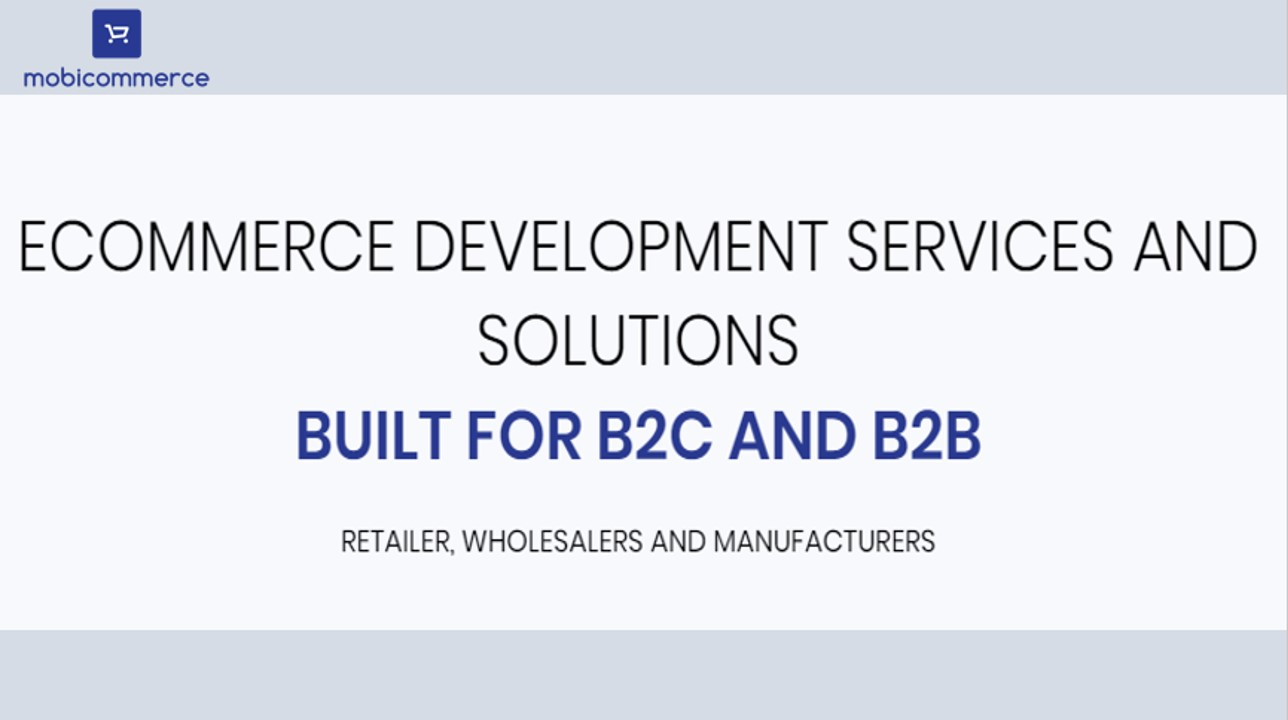
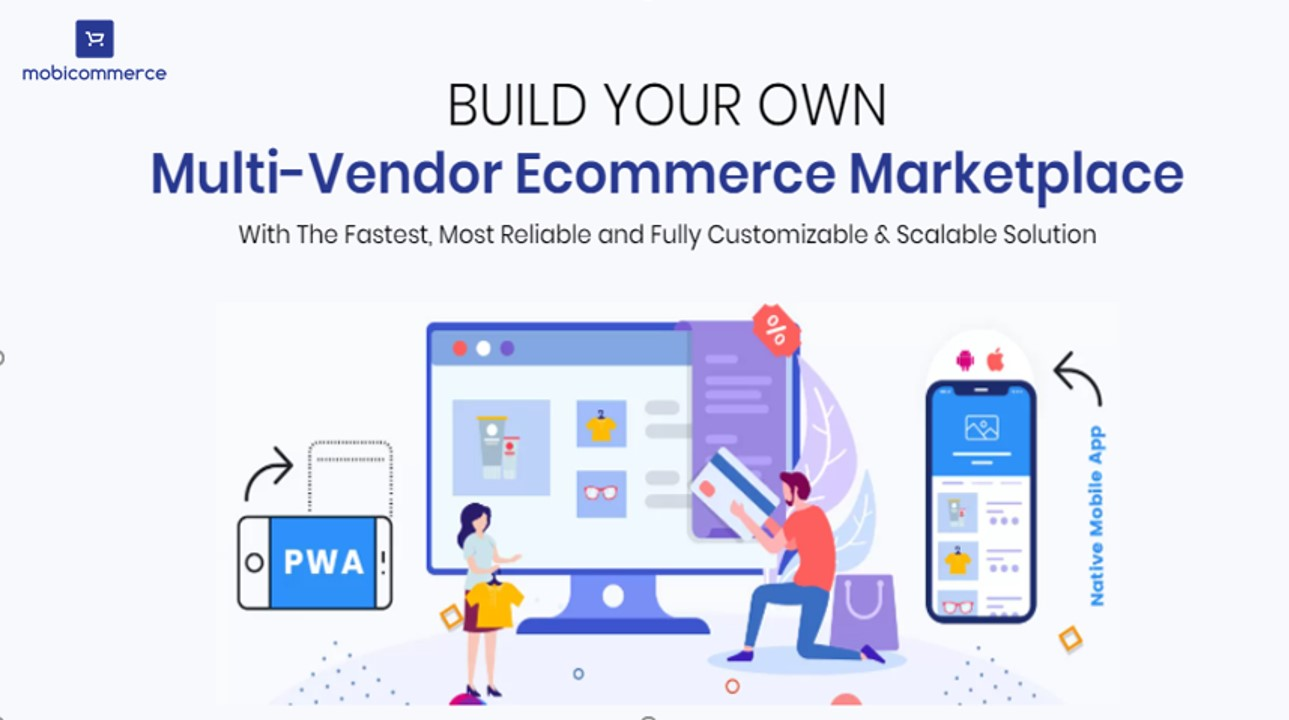
mobicommerce description and carousel change

diff --git a/src/store/strings.js b/src/store/strings.js
@@ -123,6 +123,7 @@ import MediaqartTwo from "../assets/partners/carousel/Mediaqart/two.jpg";
 
 import MobicommerceOne from "../assets/partners/carousel/Mobicommerce/one.jpg";
 import MobicommerceTwo from "../assets/partners/carousel/Mobicommerce/two.jpg";
+import MobicommerceThree from "../assets/partners/carousel/Mobicommerce/three.jpg";
 
 import MswipeOne from "../assets/partners/carousel/Mswipe/one.jpg";
 import MswipeTwo from "../assets/partners/carousel/Mswipe/two.jpg";
@@ -2845,6 +2846,12 @@ export const MOBICOMMERCE1 = {
     "•	Generate profits from the eCommerce website according to business and revenue models.",
     "•	We have ready-made, mobile-enabled solutions for multiple industries. In addition, the solutions are scalable and customizable to fit each business’ unique needs.",
     "MobiCommerce is the trusted and leading provider of next-generation E-commerce website portal and mobile app solution for B2C and B2B businesses as well as multi-vendor marketplaces",
+	<>
+	{"Subscribe Now on Youtube - "}
+		<a target="_blank" rel="noreferrer" href="https://www.youtube.com/channel/UCPljjVqNRIkD-awA6ov1TQw">
+			{"https://www.youtube.com/channel/UCPljjVqNRIkD-awA6ov1TQw"}
+		</a>
+	</>
   ],
   image: mobicommerce,
   backgroundColor: "#fff",
@@ -2859,13 +2866,18 @@ export const MOBICOMMERCE1 = {
       source: mobicommerce,
     },
     {
-      type: "image",
-      source: MobicommerceOne,
+	  type: "video",
+	  source: MobicommerceOne,
+      videoID: "g-nbUlSsDuo",
     },
     {
       type: "image",
       source: MobicommerceTwo,
     },
+	{
+		type: "image",
+		source: MobicommerceThree,
+	},
   ],
 };
 export const MOBICOMMERCE2 = {
@@ -2881,6 +2893,12 @@ export const MOBICOMMERCE2 = {
     "•	Generate profits from the eCommerce website according to business and revenue models.",
     "•	We have ready-made, mobile-enabled solutions for multiple industries. In addition, the solutions are scalable and customizable to fit each business’ unique needs.",
     "MobiCommerce is the trusted and leading provider of next-generation E-commerce website portal and mobile app solution for B2C and B2B businesses as well as multi-vendor marketplaces",
+	<>
+	{"Subscribe Now on Youtube - "}
+		<a target="_blank" rel="noreferrer" href="https://www.youtube.com/channel/UCPljjVqNRIkD-awA6ov1TQw">
+			{"https://www.youtube.com/channel/UCPljjVqNRIkD-awA6ov1TQw"}
+		</a>
+	</>
   ],
   image: mobicommerce,
   backgroundColor: "#fff",
@@ -2895,13 +2913,18 @@ export const MOBICOMMERCE2 = {
       source: mobicommerce,
     },
     {
-      type: "image",
-      source: MobicommerceOne,
+        type: "video",
+	  source: MobicommerceOne,
+      videoID: "g-nbUlSsDuo",
     },
     {
       type: "image",
       source: MobicommerceTwo,
     },
+	{
+		type: "image",
+		source: MobicommerceThree,
+	},
   ],
 };
 export const MAGICPIN = {
